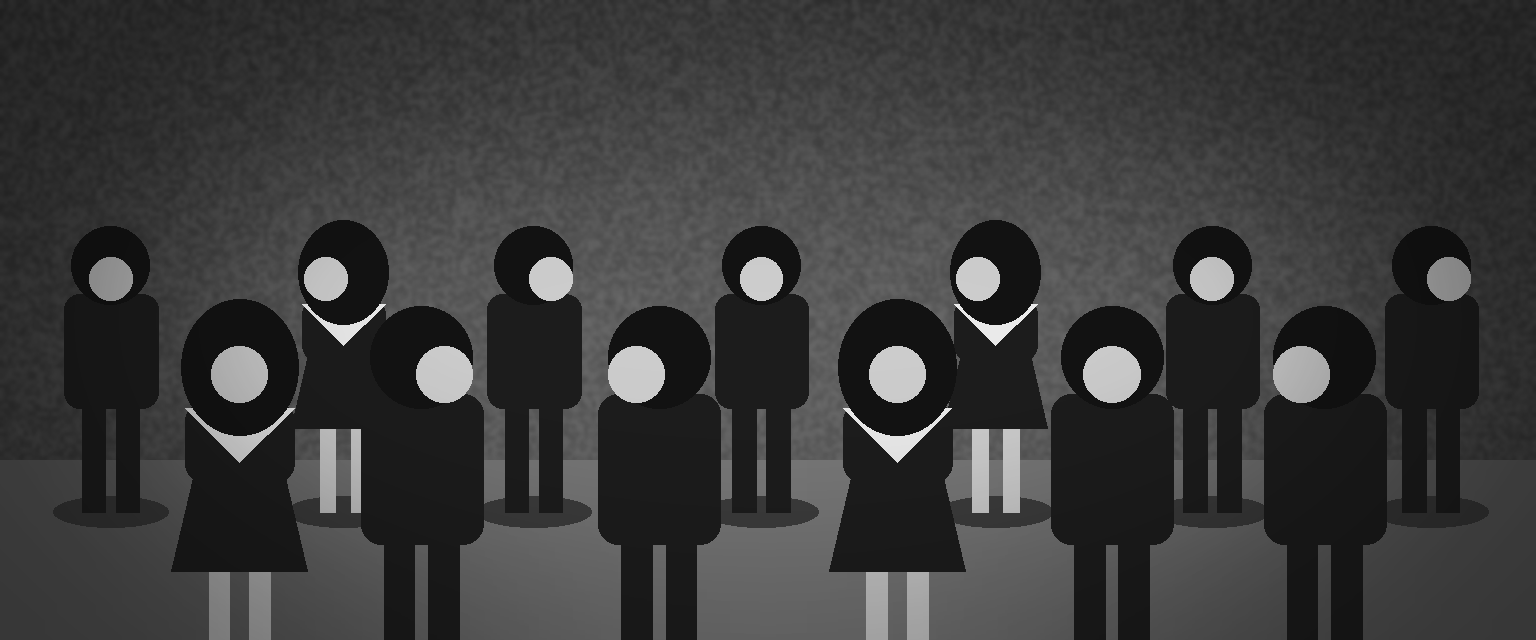
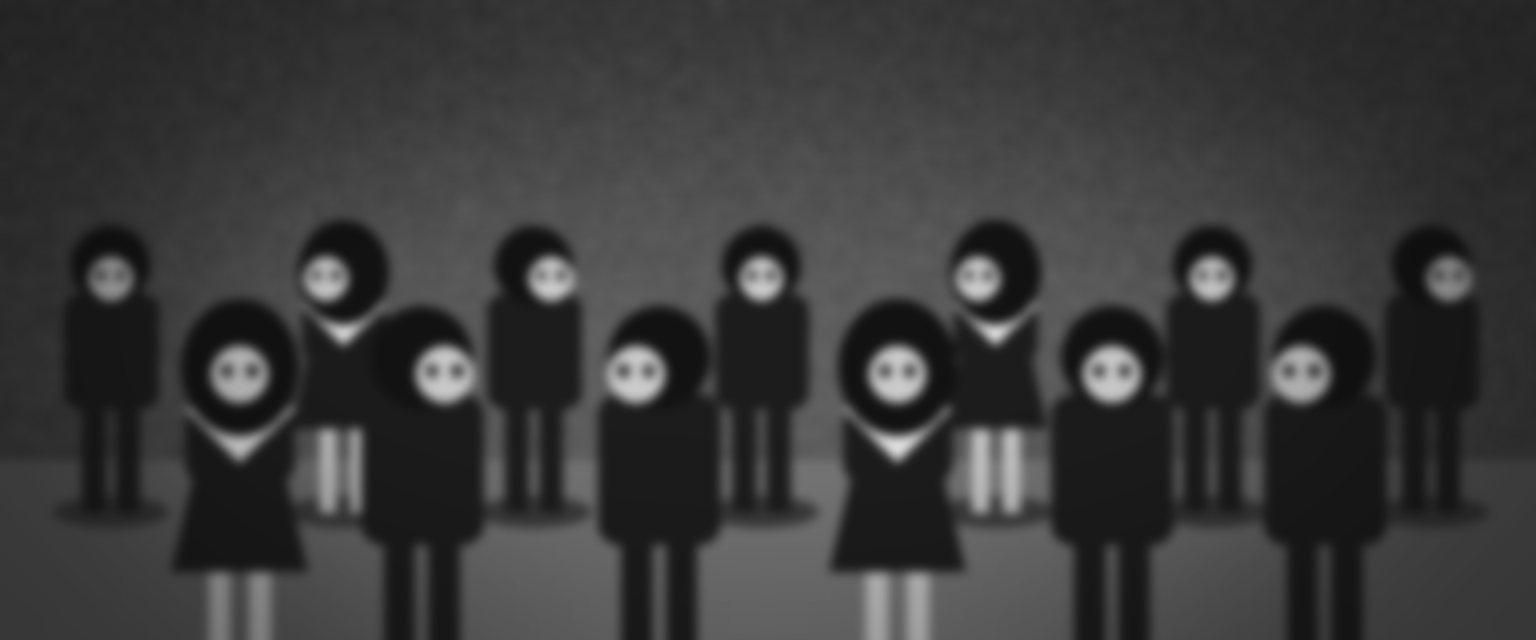
Soften the frozen-class sketches; the model kept them as faceless mannequins
Blur the flat shapes, give the close faces eyes, and repaint at 0.82.

Claude-Session: https://claude.ai/code/session_01PF511aGmcMqQ6PCbPbr6tc

diff --git a/tools/manga/sketches.py b/tools/manga/sketches.py
@@ -80,6 +80,9 @@ def student(d, x, y, s, girl, rnd):
     face = rnd.choice((-1, 0, 1))  # which way the student is looking
     fx = x + face * head * 0.45
     d.ellipse([fx - head * 0.55, top + head * 0.8, fx + head * 0.55, top + head * 1.9], fill=SKIN)
+    if s >= 1.5:  # close enough to see: wide, frightened eyes
+        for ex in (fx - head * 0.25, fx + head * 0.25):
+            d.ellipse([ex - head * 0.11, top + head * 1.15, ex + head * 0.11, top + head * 1.4], fill=(30, 30, 30))
 
 
 def chamber_wide(w=1152, h=896, seed=1501):
@@ -170,7 +173,8 @@ def frozen_class(w=1536, h=640, seed=2004):
     figures += [(h + 40 * k, w * (i + 1) / n + rnd.uniform(-25, 25) * k, 3.4 * k) for i in range(n - 1)]
     for idx, (y, x, s) in enumerate(figures):
         student(d, x, y, s, idx % 3 == 1, rnd)
-    return vignette(img, 120)
+    # Soften the flat shapes, or the model keeps them as faceless mannequins.
+    return vignette(img.filter(ImageFilter.GaussianBlur(5 * k)), 120)
 
 
 def old_key(length, angle=0, tone=(200, 200, 200)):
